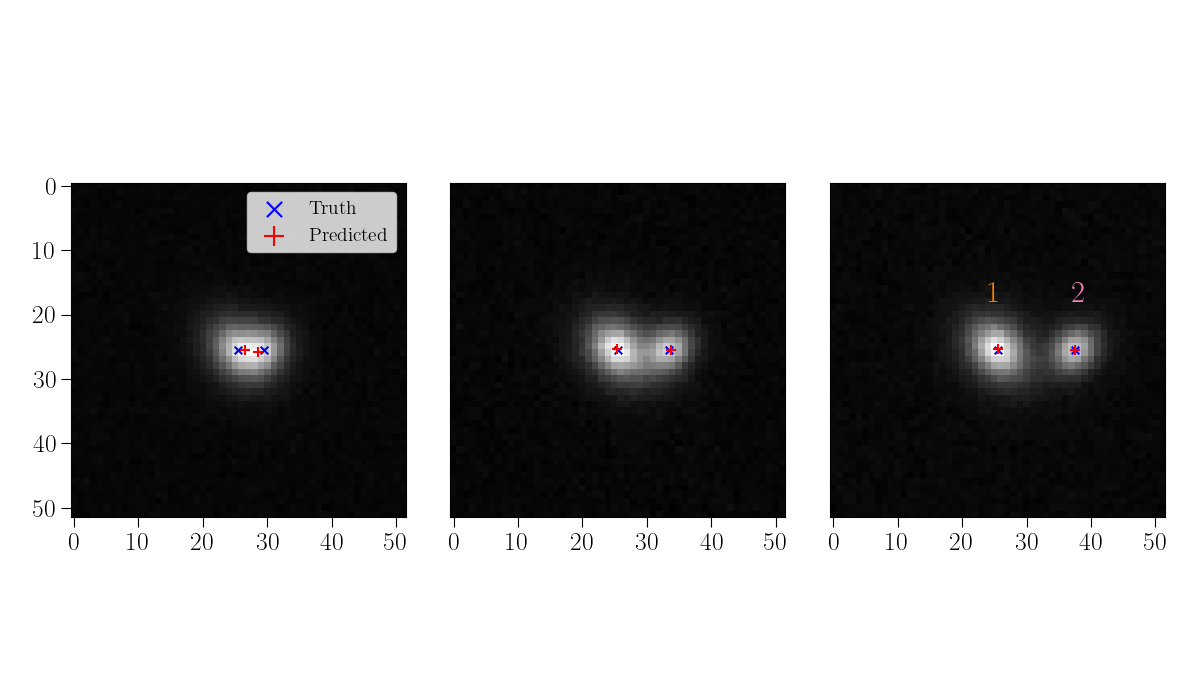
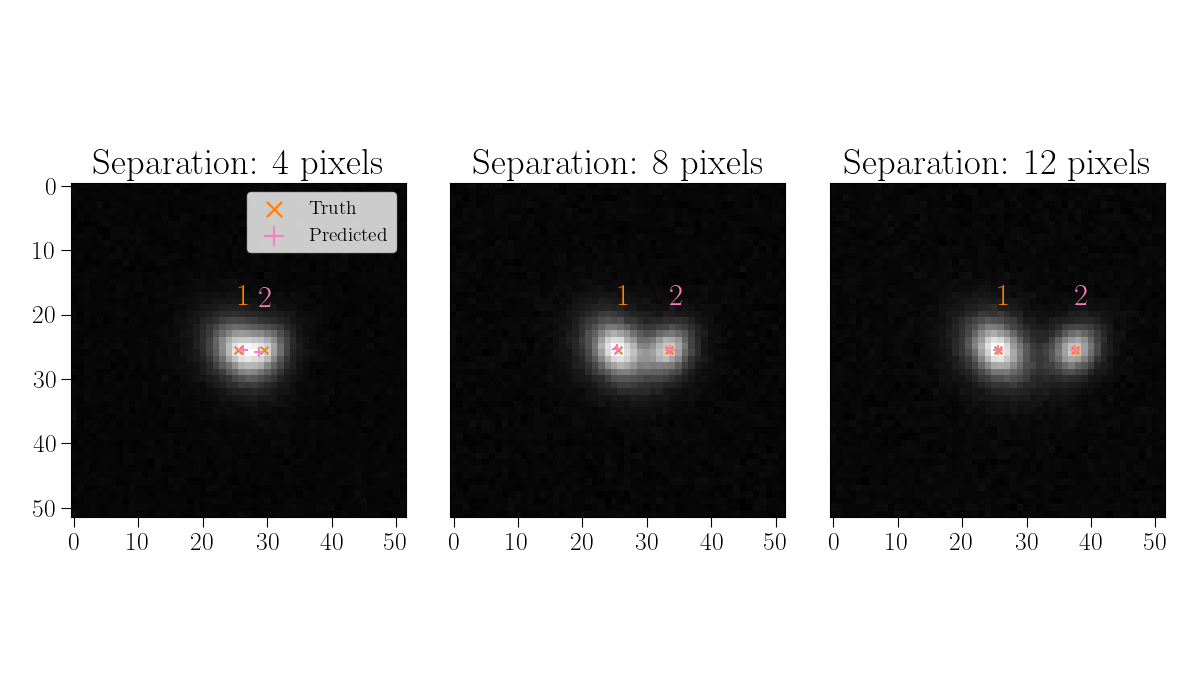
wrapping up figure

diff --git a/case_studies/galsim_galaxies/get_figures.py b/case_studies/galsim_galaxies/get_figures.py
@@ -655,7 +655,7 @@ class ToySeparationFigure(BlissFigure):
 
         # now separations between galaxies to be considered (in pixels)
         # for efficiency, we set the batch_size equal to the number of separations
-        seps = torch.arange(0, 18, 0.25)
+        seps = torch.arange(0, 18, 0.1)
         batch_size = len(seps)
 
         # Params: total_flux, disk_frac, beta_radians, disk_q, disk_a, bulge_q, bulge_a
@@ -763,8 +763,8 @@ class ToySeparationFigure(BlissFigure):
         seps_to_plot = [4, 8, 12]
         trim = 20  # zoom into relevant part of the image
 
-        c1 = plt.rcParams["axes.prop_cycle"].by_key()["color"][1]
-        c2 = plt.rcParams["axes.prop_cycle"].by_key()["color"][3]
+        c1 = plt.rcParams["axes.prop_cycle"].by_key()["color"][1]  # true
+        c2 = plt.rcParams["axes.prop_cycle"].by_key()["color"][3]  # predicted
 
         for ii, psep in enumerate(seps_to_plot):
             indx = list(seps).index(psep)
@@ -774,10 +774,11 @@ class ToySeparationFigure(BlissFigure):
             x2 = eplocs[indx, :, 1] + bp - 0.5 - trim
             y2 = eplocs[indx, :, 0] + bp - 0.5 - trim
             axes[ii].imshow(image, cmap="gray")
-            axes[ii].scatter(x1, y1, marker="x", color="b", s=30, label=None if ii else "Truth")
-            axes[ii].scatter(x2, y2, marker="+", color="r", s=50, label=None if ii else "Predicted")
+            axes[ii].scatter(x1, y1, marker="x", color=c1, s=30, label=None if ii else "Truth")
+            axes[ii].scatter(x2, y2, marker="+", color=c2, s=50, label=None if ii else "Predicted")
             axes[ii].set_xticks([0, 10, 20, 30, 40, 50])
             axes[ii].set_yticks([0, 10, 20, 30, 40, 50])
+            axes[ii].set_title(rf"\rm Separation: {psep} pixels")
 
             if ii == 0:
                 axes[ii].legend(loc="best", prop={"size": 14}, markerscale=2)
@@ -786,9 +787,9 @@ class ToySeparationFigure(BlissFigure):
                 axes[ii].set_yticks([])  # turn off axis
                 axes[ii].set_ylim(axes[0].get_ylim())  # align axes
 
-            if ii == 2:
-                axes[ii].text(24, 18, "1", color=c1)
-                axes[ii].text(37, 18, "2", color=c2)
+            axes[ii].text(x1[0].item(), y1[0].item() - 7, "1", color=c1)
+            axes[ii].text(x2[1].item(), y2[1].item() - 7, "2", color=c2)
+
         fig.tight_layout()
 
         return fig
@@ -822,9 +823,13 @@ class ToySeparationFigureMeasurements(ToySeparationFigure):
 
         axs[0].plot(seps, prob_n1, "-", label="1", color=c1)
         axs[0].plot(seps, prob_n2, "-", label="2", color=c2)
-        axs[0].axvline(2, color="k", ls="--", label=r"\rm Same tile")
+        axs[0].axvline(2, color="k", ls="--", label=r"\rm Tile boundary")
+        axs[0].axvline(6, ls="--", color="k")
+        axs[0].axvline(10, ls="--", color="k")
+        axs[0].axvline(14, ls="--", color="k")
         axs[0].legend(loc="best")
         axs[0].set_xticks(xticks)
+        axs[0].set_xlim(0, 16)
         axs[0].set_xlabel(r"\rm Separation (pixels)")
         axs[0].set_ylabel(r"\rm Detection Probability")
 
@@ -839,8 +844,12 @@ class ToySeparationFigureMeasurements(ToySeparationFigure):
         axs[1].plot(seps, dist1, "-", label="1", color=c1)
         axs[1].plot(seps, dist2, "-", label="2", color=c2)
         axs[1].axhline(0, ls="-", color="k")
-        axs[1].axvline(2, ls="--", color="k", label=r"\rm Same tile")
+        axs[1].axvline(2, ls="--", color="k", label=r"\rm Tile boundary")
+        axs[1].axvline(6, ls="--", color="k")
+        axs[1].axvline(10, ls="--", color="k")
+        axs[1].axvline(14, ls="--", color="k")
         axs[1].set_xticks(xticks)
+        axs[1].set_xlim(0, 16)
         axs[1].set_xlabel(r"\rm Separation (pixels)")
         axs[1].set_ylabel(r"\rm Distance residual (pixels)")
 
@@ -850,10 +859,14 @@ class ToySeparationFigureMeasurements(ToySeparationFigure):
         axs[3].plot(seps, eploc_sd1, "-", label="1", color=c1)
         axs[3].plot(seps, eploc_sd2, "-", label="2", color=c2)
         axs[3].axhline(0, ls="-", color="k")
-        axs[3].axvline(2, ls="--", color="k", label=r"\rm Same tile")
+        axs[3].axvline(2, ls="--", color="k", label=r"\rm Tile boundary")
+        axs[3].axvline(6, ls="--", color="k")
+        axs[3].axvline(10, ls="--", color="k")
+        axs[3].axvline(14, ls="--", color="k")
         axs[3].set_xticks(xticks)
+        axs[3].set_xlim(0, 16)
         axs[3].set_xlabel(r"\rm Separation (pixels)")
-        axs[3].set_ylabel(r"\rm Predicted centroid error")
+        axs[3].set_ylabel(r"\rm Predicted centroid std.")
 
         # flux normalized residuals
         tflux1 = data["truth"]["flux"][:, 0]
@@ -866,8 +879,12 @@ class ToySeparationFigureMeasurements(ToySeparationFigure):
         axs[2].plot(seps, rflux1, "-", label="1", color=c1)
         axs[2].plot(seps, rflux2, "-", label="2", color=c2)
         axs[2].axhline(0, ls="-", color="k")
-        axs[2].axvline(2, ls="--", color="k", label=r"\rm Same tile")
+        axs[2].axvline(2, ls="--", color="k", label=r"\rm Tile boundary")
+        axs[2].axvline(6, ls="--", color="k")
+        axs[2].axvline(10, ls="--", color="k")
+        axs[2].axvline(14, ls="--", color="k")
         axs[2].set_xticks(xticks)
+        axs[2].set_xlim(0, 16)
         axs[2].set_xlabel(r"\rm Separation (pixels)")
         axs[2].set_ylabel(r"$\Delta f / f^{\rm true}$")
 
